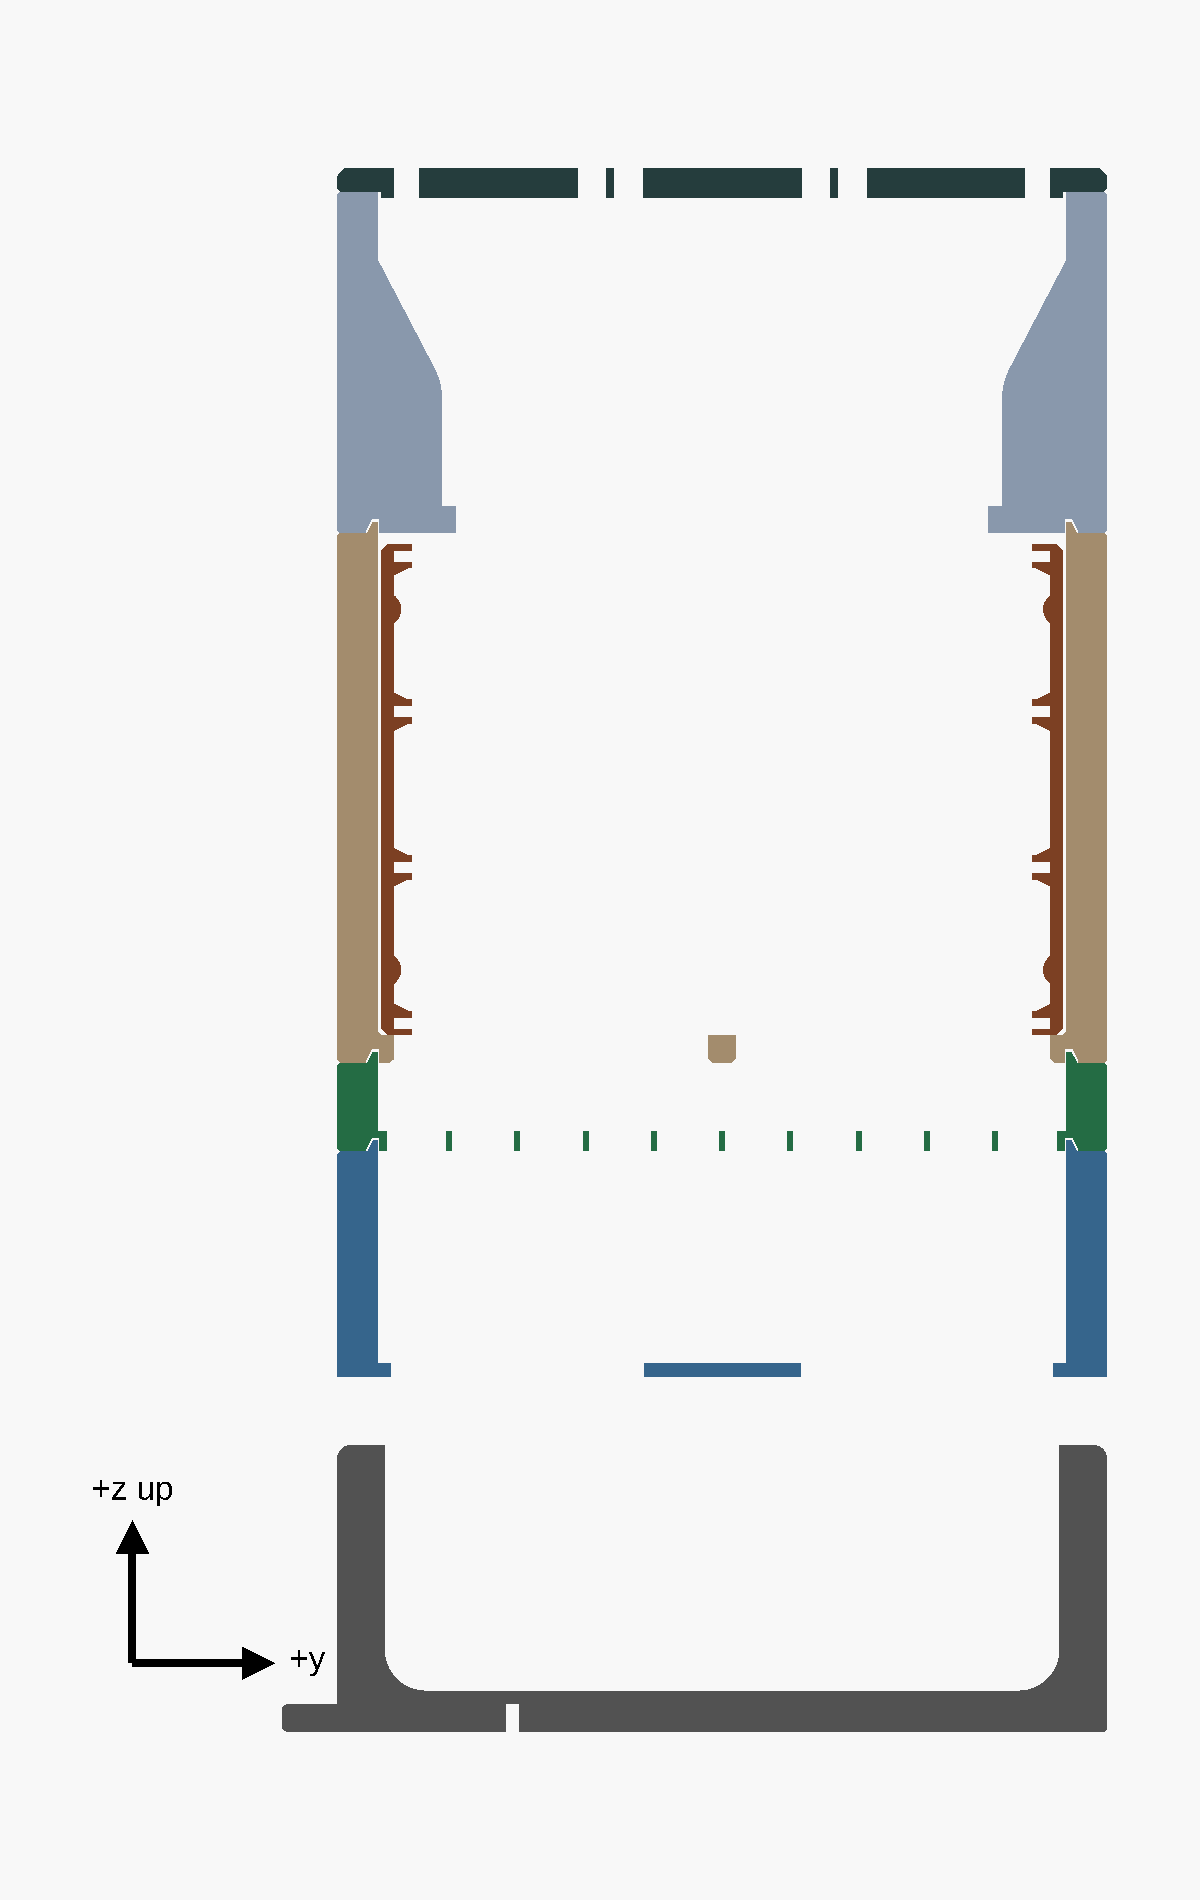
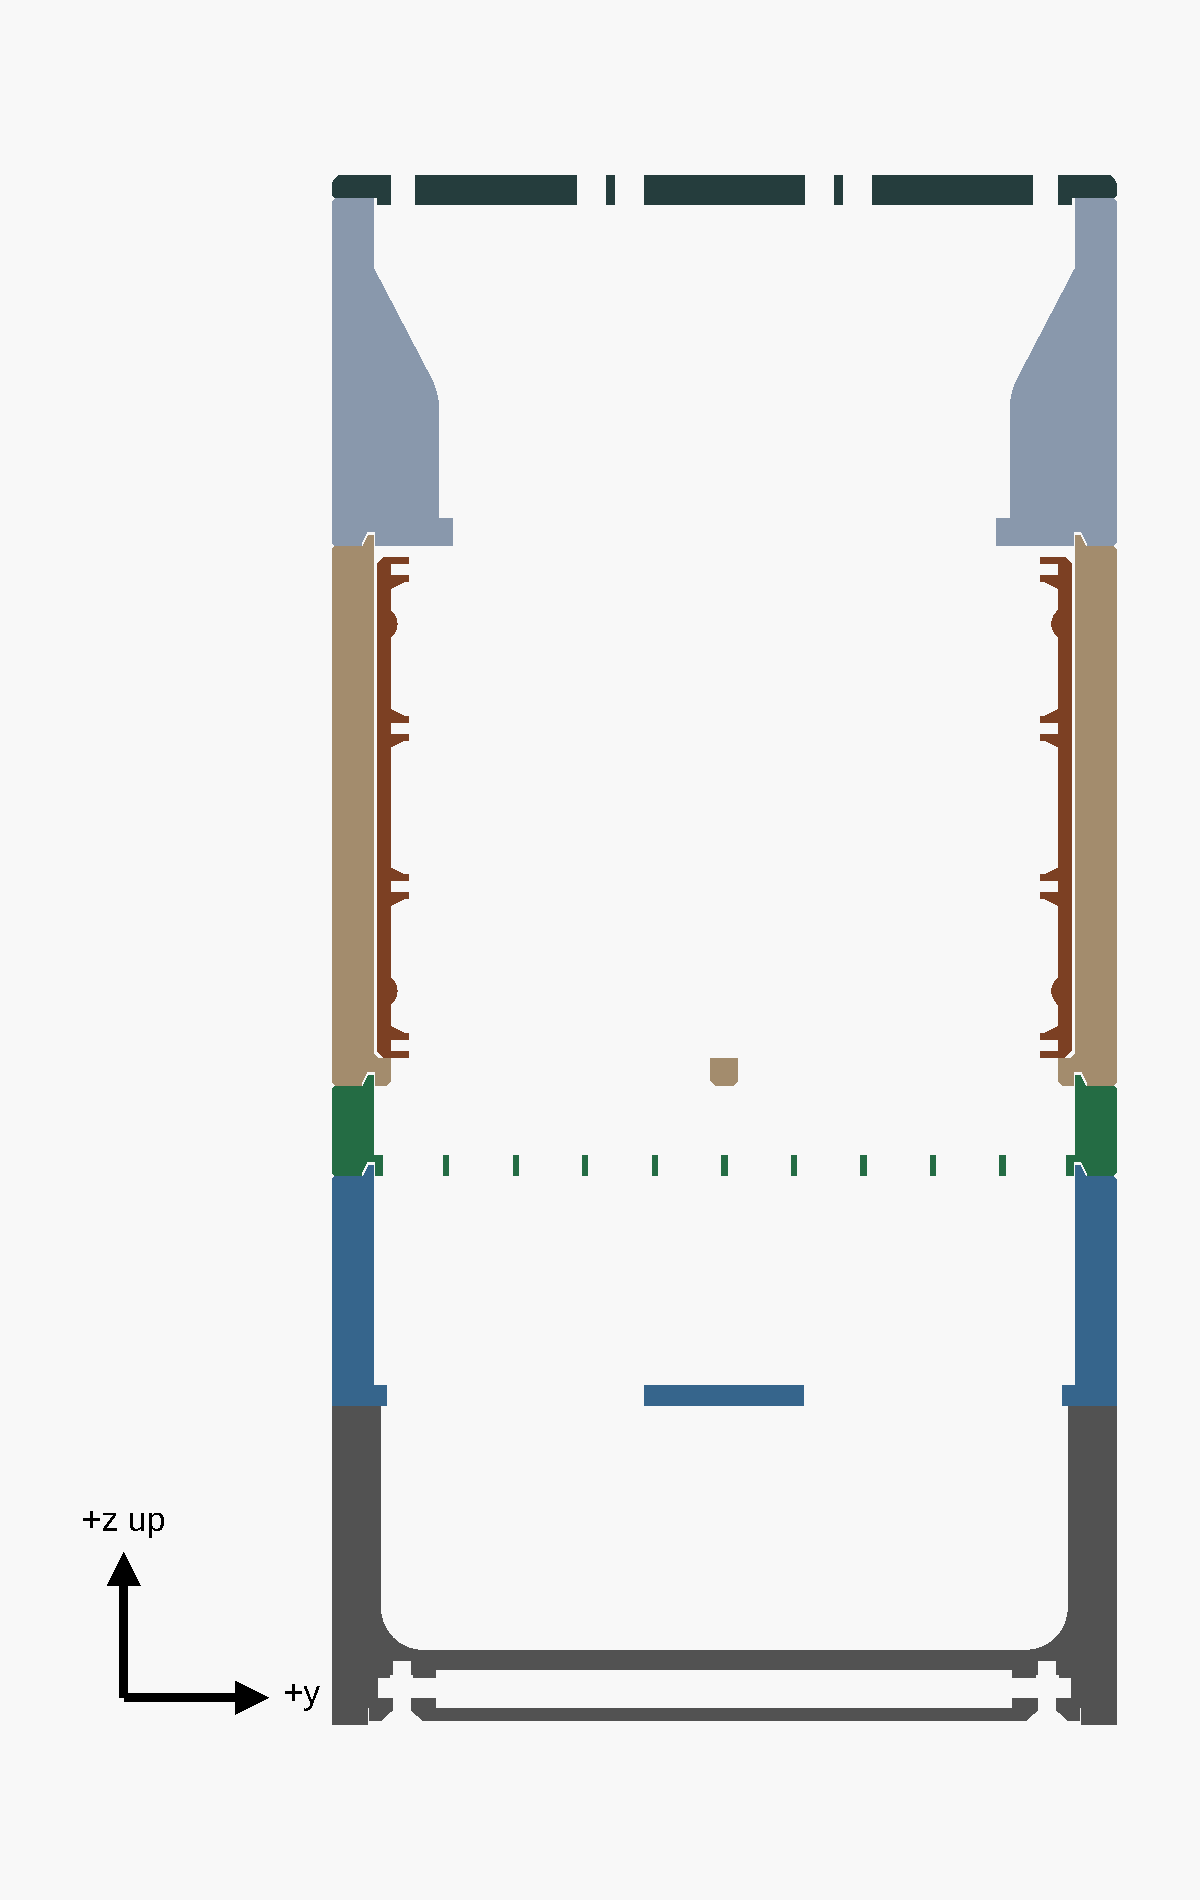
docs(bentobox): the bottom, from the BentoBox Auto, with nuts
The build page gets a section on the bottom: the Auto's base is the
duct with its floor raised over a bay for the electronics, about 40 x 95
mm and 7 mm tall, and a tube for the wires down to it; its outlet is
101 x 37 mm where the duct's is 74 x 46, so the airflow simulated with
the duct should hold, and it will be run again before publishing. The
nuts in their slots, how it goes together, the screws, and the three
parts' print times; the checks are now 17 fits and 21 controls.

The sensors will go in the base's outlet, after the carbon; their mount
is not drawn yet. The Auto's sensor spacer and controller are not used.

A new picture shows the bottom pulled apart from the outlet's side; the
stack's exploded view and cut show the Auto's bottom now. The README's
map and licence line credit the BentoBox Auto.

diff --git a/scripts/bentobox-checks.py b/scripts/bentobox-checks.py
@@ -128,7 +128,7 @@ FIGURES = {
     "exploded": [("view", '"exploded"')], "cut": [("view", '"cut"'), ("cut_x", "0")],
     "section-top": [("view", '"section"')], "section-bottom": [("view", '"section"'), ("axes_cam", "[235, 0, 30]")],
     "paper-frame": [("view", '"frame"'), ("explode", "25")], "paper-cap": [("view", '"cap"')],
-    "paper-cut": [("view", '"paper_cut"')],
+    "paper-cut": [("view", '"paper_cut"')], "auto-bottom": [("view", '"bottom"'), ("explode", "28"), ("axes_cam", "[50, 0, 215]")],
 }
 CAMERAS = {
     "exploded": ["--imgsize=1200,1900", "--viewall", "--autocenter", "--camera=0,0,0,70,0,320,0"],
@@ -138,6 +138,7 @@ CAMERAS = {
     "paper-frame": ["--imgsize=1400,1100", "--viewall", "--autocenter", "--camera=0,0,0,55,0,30,0"],
     "paper-cap": ["--imgsize=1200,800", "--viewall", "--autocenter", "--camera=0,0,0,55,0,30,0"],
     "paper-cut": ["--imgsize=1800,560", "--projection=o", "--camera=-8,11,0,0,0,0,118"],
+    "auto-bottom": ["--imgsize=1400,1300", "--viewall", "--autocenter", "--camera=0,0,0,50,0,215,0"],
 }
 
 

diff --git a/docs/bentobox-scrubber.md b/docs/bentobox-scrubber.md
@@ -7,19 +7,25 @@ goes through the C-MAG, a cartridge that holds the carbon pellets in three thin 
 other. Two 40 mm fans in the fan case pull it down and blow it into the duct, which turns it out of one long
 side, at the floor. It is built for the two Delta EFB0412VHD this build has, 40 × 40 × 20 mm.
 
-![The stack pulled apart: the cover, the HEPA holder, the carbon housing with the C-MAG in it, the section, the fan case, the duct](bentobox/exploded.png)
+**Its bottom is the BentoBox Auto's** (see *The bottom*): the same duct, its floor raised over a bay for the
+electronics, with a tube down to it for the wires, and nuts where the Auto had heat-set inserts.
+
+![The stack pulled apart: the cover, the HEPA holder, the carbon housing with the C-MAG in it, the section, the fan section, the base, the plate under its bay](bentobox/exploded.png)
 
 **It takes its HEPA as a cartridge:** a bought one, 80 × 40 × 15 mm, rests on a ledge in its holder. Or
 the HEPA paper this build already has, pleated 20 mm deep, in the remix's frame (see *Your own HEPA
 paper*).
 
-The remix adds three parts, and changes nothing of the original:
+The remix adds three parts, and takes its bottom from the BentoBox Auto, with nuts for its inserts:
 
 | | What it does | File |
 |---|---|---|
 | **Section** | Goes between the carbon housing and the fan case, holding a flat filter sheet that stops carbon dust reaching the fans. Its top is the fan case's tongue and its bottom the housing's groove, with the same magnets, so it drops into any BentoBox v2.0 stack. | [`bentobox-section.scad`](../models/bentobox/bentobox-section.scad) |
 | **Paper ring** | Stands on the HEPA holder's ledge in place of the cartridge and holds a cut piece of pleated paper. | [`bentobox-hepa-ring.scad`](../models/bentobox/bentobox-hepa-ring.scad) |
 | **Paper cap** | Two, in TPU, one on each end of the paper: wedges from above and teeth from below hold the paper's cut end in a zigzag slot, closing its pleats' ends. | [`bentobox-hepa-cap.scad`](../models/bentobox/bentobox-hepa-cap.scad) |
+| **Base** | The Auto's, in place of the duct: the bay under it, the wires' tube, and six nuts in slots where it had heat-set inserts. | [`bentobox-auto-base.scad`](../models/bentobox/bentobox-auto-base.scad) |
+| **Fan section** | The Auto's, as it comes, in place of the fan case. | [`bentobox-auto-fans.scad`](../models/bentobox/bentobox-auto-fans.scad) |
+| **Plate** | The Auto's, closing the bay, its two holes opened to M3. | [`bentobox-auto-plate.scad`](../models/bentobox/bentobox-auto-plate.scad) |
 
 **Not printed yet.** Every fit is checked against the original's STLs (see *Checking it*), not yet against
 printed parts.
@@ -59,6 +65,51 @@ neighbour the way the two of them met.
 
 The groove is 1 mm from each magnet hole, and so it is in every BentoBox part. The section copies that
 joint rather than changing it.
+
+## The bottom
+
+The base and the fan section are Strangwooduk's, from the
+[BentoBox Auto VOC Sensor system](https://makerworld.com/en/models/1882240), a remix of ThrutheFrame's box.
+
+- **The base is ThrutheFrame's duct**, the same walls and the same curved floor, with the floor raised about
+  11 mm over a **bay for the electronics**: about 40 × 95 mm and 7 mm tall, closed by a plate on two screws.
+  The base is 46 mm tall where the duct is 52.
+- **A tube carries the wires down**: a 6 mm hole in the fan section's floor between the fans, and a tube
+  under it through the base to the bay. The two fans' leads go down it; a 4.5 mm bundle passes.
+- **The air leaves the same way**: out of the whole long side, 101 × 37 mm (3,700 mm²) where the duct's
+  opening is 74 × 46 (3,400 mm²). Both are larger than the fans' own two 37 mm openings, and the HEPA, not
+  the duct, sets the flow, so the airflow below, simulated with the duct, should hold within a few per cent.
+  The simulation will be run again with this base before the remix is published.
+- **The fan section is the fan case's top exactly**: its tongue, its inside and its magnet holes, so the
+  section and everything above sit on it unchanged. Each fan is held by two screws, at opposite corners,
+  down through the fan section's floor into the base.
+
+The Auto also has a spacer for a sensor between the HEPA holder and the carbon housing, and a 24 V
+controller in the bay. Neither is used here. This build's sensors (the same as the
+[air-quality monitor's](https://github.com/AlonRR/air-quality-monitor), an SPS30 and an SGP41) will go
+**in the base's outlet**, where they read the air after the carbon; the chamber's own monitor reads the air
+before it. Their mount is not drawn yet.
+
+![The bottom pulled apart, from the outlet's side: the fan section, the screws, the base with a nut's slot in each post, the plate under its bay](bentobox/auto-bottom.png)
+
+**Nuts, not heat-set inserts.** Each nut lies flat in a slot that opens one way, and the screw holds it there.
+
+- **The fans' four screws**, M3 × 30, come down through each fan and the fan section's floor into a nut
+  2 mm under the base's top, in a post on a 45° cone. The two posts at the end walls open to the outlet, so a
+  nut goes in, or back in, from outside. The two beside the wires' tube open between the fans. All four are
+  cut back clear of the fans' air.
+- **The plate's two screws**, M3 × 8 countersunk, come up through the plate into nuts slid into slots from
+  the bay, before the plate goes on.
+- Each slot's roof starts with two bridging layers, a channel and then a square, so the screw's hole
+  prints over the slot without support.
+
+**Putting it together:** a nut in each of the plate's slots, then the plate on with its two screws; a nut
+in each of the four posts; the fans' leads down the tube; the fan section on the base, the fans in it, and
+their four screws down through them.
+
+**Magnets:** the fan section's top keeps its four, as the fan case has, for the section above it. The
+base's underside has four holes for 4 × 2 mm magnets too, from the Auto; magnets there would hold the box
+to a steel floor. They are optional.
 
 ## Your own HEPA paper
 
@@ -117,17 +168,30 @@ the slot. Anything from 28 to 30 folds in 100 mm gives the same parts.
 ## Printing
 
 Every original part prints as the author's project lays it out; the remix's print as their files draw
-them, the section and the ring bottom down, a cap with its plate on the bed. No supports, no brim.
+them, the section and the ring bottom down, a cap with its plate on the bed. The base stands on its bottom
+face, the fan section on its floor, and the plate on its inner face, its countersinks up. No supports, no
+brim. Standing, the base's bay roof is a 41 mm bridge, as the Auto has it.
 
 | Part | Material | Count | Time | Filament |
 |---|---|---|---|---|
 | Section | ASA | 1 | 1 h 43 m | 16 g |
 | Paper ring | ASA | 1 | 1 h 8 m | 8 g |
 | Paper cap | TPU 95A | 2 | 52 m each | 5 g each |
+| Base | ASA | 1 | 4 h 15 m | 44 g |
+| Fan section | ASA | 1 | 3 h 21 m | 33 g |
+| Plate | ASA | 1 | 29 m | 7 g |
 
 Times and weights are PrusaSlicer's, at 0.2 mm with the house profile `0.2mm QUALITY @MK3 - no skirt, no
 brim, no crossing perimeter`, as [`scad-check.sh`](https://github.com/AlonRR/scad-tools) slices them, with
 `Inslogic TPU 95A` for the caps.
+
+For the bottom:
+
+| Quantity | Item |
+|---|---|
+| 6 | M3 hex nut, ISO 4032 |
+| 4 | M3 × 30 socket head cap screw, ISO 4762: the fans |
+| 2 | M3 × 8 countersunk screw, ISO 10642: the plate |
 
 ## The air through it
 
@@ -165,6 +229,7 @@ measurement. How it is built and every assumption in it: [`sim/bentobox-cfd/`](.
 - **Filling the C-MAG's trays full costs a seventh of the flow and quadruples the carbon**: 222 cm³ instead
   of 55, more than the LunchBox's 150, and the air spends nearly five times as long in it. The carbon is
   not what limits this box's flow, so carbon here is cheap.
+- **Simulated with ThrutheFrame's duct**, not the Auto's base (see *The bottom*).
 - **No leaks.** The air in at the cover and out at the duct agree to within 2 %, and to 1 % on every plane
   between them, and nothing gets round the C-MAG. Unlike the LunchBox, there is nothing to seal.
 - **Checked on a finer mesh** (1 mm instead of 2, with the section): the air through the filters comes out
@@ -216,9 +281,10 @@ billion, but they weigh micrograms.
 
 The model's rules are asserts and warnings in [`bentobox.layout.scad`](../models/bentobox/bentobox.layout.scad).
 The fits are checked against the original's STLs, which have to be in
-[`models/bentobox/original/`](../models/bentobox/original/):
+[`models/bentobox/original/`](../models/bentobox/original/), with the Auto's written there from its STEP:
 
 ```sh
+uv run scripts/bentobox-auto-stl.py                                # the Auto's STLs, from its STEP
 OPENSCAD="<the OpenSCAD nightly>" uv run scripts/bentobox-checks.py all
 ```
 
@@ -226,9 +292,12 @@ It intersects the section with the carbon housing above it and the fan case belo
 each joint through both parts' holes, and runs the air's way from the housing's floor openings down through
 the section. For the paper's frame it stands the ring in the original HEPA holder, runs the ledge's opening
 up through the ring's walls, sets the caps' wedges and teeth and the ring's strips in a model of the paper
-drawn from the paper's own values, and the caps against the strips. Each must come out empty. Every check
-has a positive control, something broken on purpose that it must catch, and the run fails if one passes
-unnoticed: 10 fits and 13 controls.
+drawn from the paper's own values, and the caps against the strips. For the bottom it stands the fan
+section on the base and the plate in its recess, sets a nut in each slot and slides it out through the
+slot's mouth, runs each screw from its head to its tip, and the wires down the tube, and the fans' air
+down into the base past the posts. Each must come out empty. Every check has a positive control,
+something broken on purpose that it must catch, and the run fails if one passes unnoticed: 17 fits and
+21 controls.
 
 [`bentobox.params.scad`](../models/bentobox/bentobox.params.scad) holds the original's dimensions, measured
 by sectioning its STLs, and every setting of the section and of the paper's frame.
@@ -236,5 +305,7 @@ by sectioning its STLs, and every setting of the section and of the paper's fram
 ## Credit and licence
 
 BentoBox v2.0 is © ThrutheFrame, under [CC BY-NC-SA 4.0](https://creativecommons.org/licenses/by-nc-sa/4.0/).
+The BentoBox Auto VOC Sensor system, whose base, fan section and plate the bottom is, is © Strangwooduk,
+under the same licence as a remix of it.
 The remix — the models in [`models/bentobox/`](../models/bentobox/) and the pictures in [`bentobox/`](bentobox/)
 — is under CC BY-NC-SA 4.0 too: free to use and share, not for sale.

diff --git a/README.md b/README.md
@@ -30,7 +30,7 @@ for two 40 mm fans, with a carbon-dust filter, gaskets and clamping tabs.
 | [`docs/chamber-sensor.md`](docs/chamber-sensor.md), [`docs/chamber-sensor/`](docs/chamber-sensor/) | the record and the decisions: sensors, the node, boards, WiFi, the SuperMini antenna, measurements, heating and airflow, the build order |
 | [`docs/chamber-airflow.md`](docs/chamber-airflow.md) | the two-fan filter and extraction plan |
 | [`docs/lunchbox-scrubber.md`](docs/lunchbox-scrubber.md), [`models/lunchbox/`](models/lunchbox/), [`scripts/lunchbox-checks.py`](scripts/lunchbox-checks.py) | the filter: the LunchBox remix, its parts, how it goes together, and its fit checks against the original |
-| [`docs/bentobox-scrubber.md`](docs/bentobox-scrubber.md), [`models/bentobox/`](models/bentobox/), [`scripts/bentobox-checks.py`](scripts/bentobox-checks.py) | the other filter weighed against it: BentoBox v2.0 with its carbon magazine, a carbon-dust section for it, a frame for the build's own HEPA paper, and its fit checks |
+| [`docs/bentobox-scrubber.md`](docs/bentobox-scrubber.md), [`models/bentobox/`](models/bentobox/), [`scripts/bentobox-checks.py`](scripts/bentobox-checks.py), [`scripts/bentobox-auto-stl.py`](scripts/bentobox-auto-stl.py) | the other filter weighed against it: BentoBox v2.0 with its carbon magazine, a carbon-dust section for it, a frame for the build's own HEPA paper, the BentoBox Auto's bottom with nuts for its heat-set inserts, and its fit checks |
 | [`sim/`](sim/) | airflow simulations of both filters, OpenFOAM, from their models |
 | [`scad-tools/`](https://github.com/AlonRR/scad-tools) | the shared OpenSCAD tools, a git submodule: `scad-check.sh`, and the xyz arrows the pictures use |
 | [`firmware/chamber-c3.yaml`](firmware/chamber-c3.yaml) | the chamber node in service |
@@ -75,7 +75,8 @@ rm -rf scad-tools && mkdir scad-tools && curl -sL "https://github.com/AlonRR/sca
 Code — `firmware/`, `scripts/` and `sim/` — is MPL-2.0. The LunchBox remix — `models/lunchbox/` and its pictures
 in `docs/lunchbox/` — is CC-BY-SA-4.0, as the [LunchBox](https://www.printables.com/model/468166) it builds
 on is. The BentoBox remix — `models/bentobox/` and its pictures in `docs/bentobox/` — is
-CC-BY-NC-SA-4.0, as [BentoBox v2.0](https://www.printables.com/model/272525) is. Everything else, the docs, the data and this README, is CC-BY-4.0. Every file states its own
+CC-BY-NC-SA-4.0, as [BentoBox v2.0](https://www.printables.com/model/272525) is, and the
+[BentoBox Auto](https://makerworld.com/en/models/1882240) its bottom comes from. Everything else, the docs, the data and this README, is CC-BY-4.0. Every file states its own
 licence, following [REUSE](https://reuse.software/): an `SPDX-License-Identifier` header, or an entry in
 `REUSE.toml`. Full texts are in [`LICENSES/`](LICENSES/).
 
